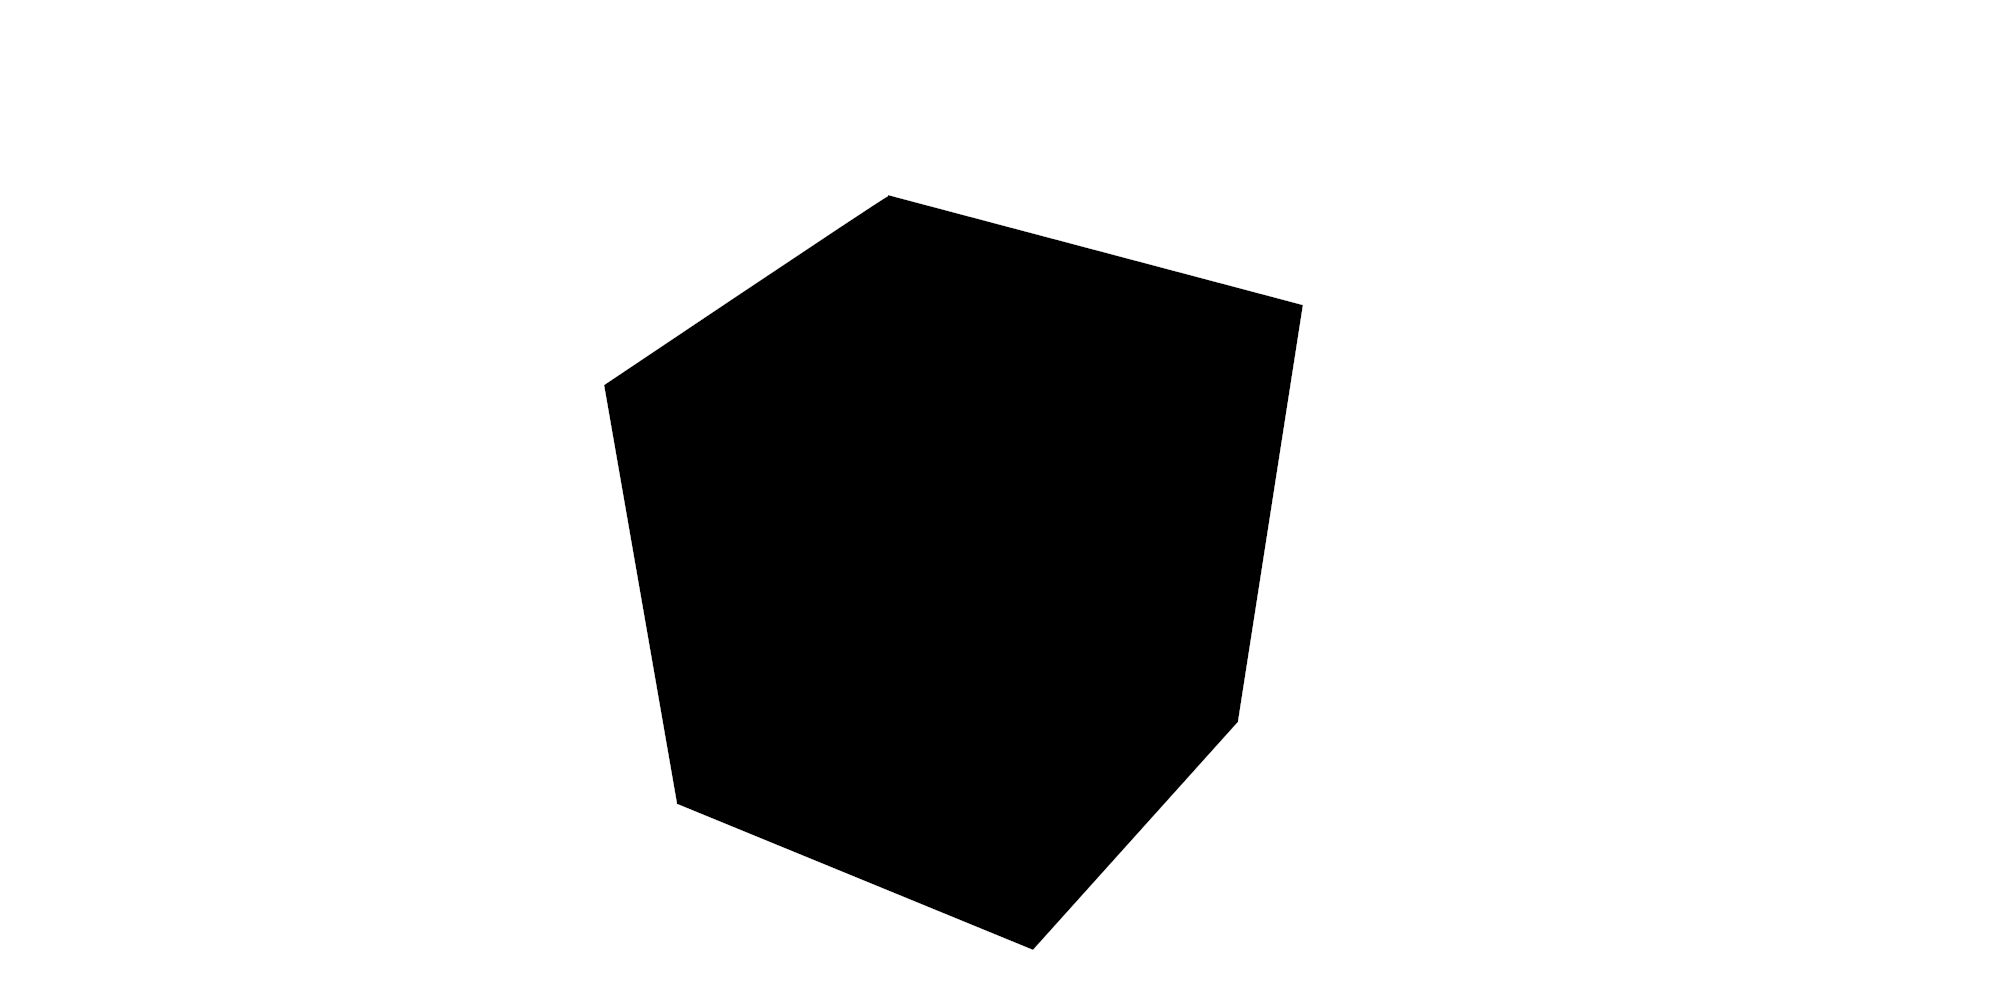
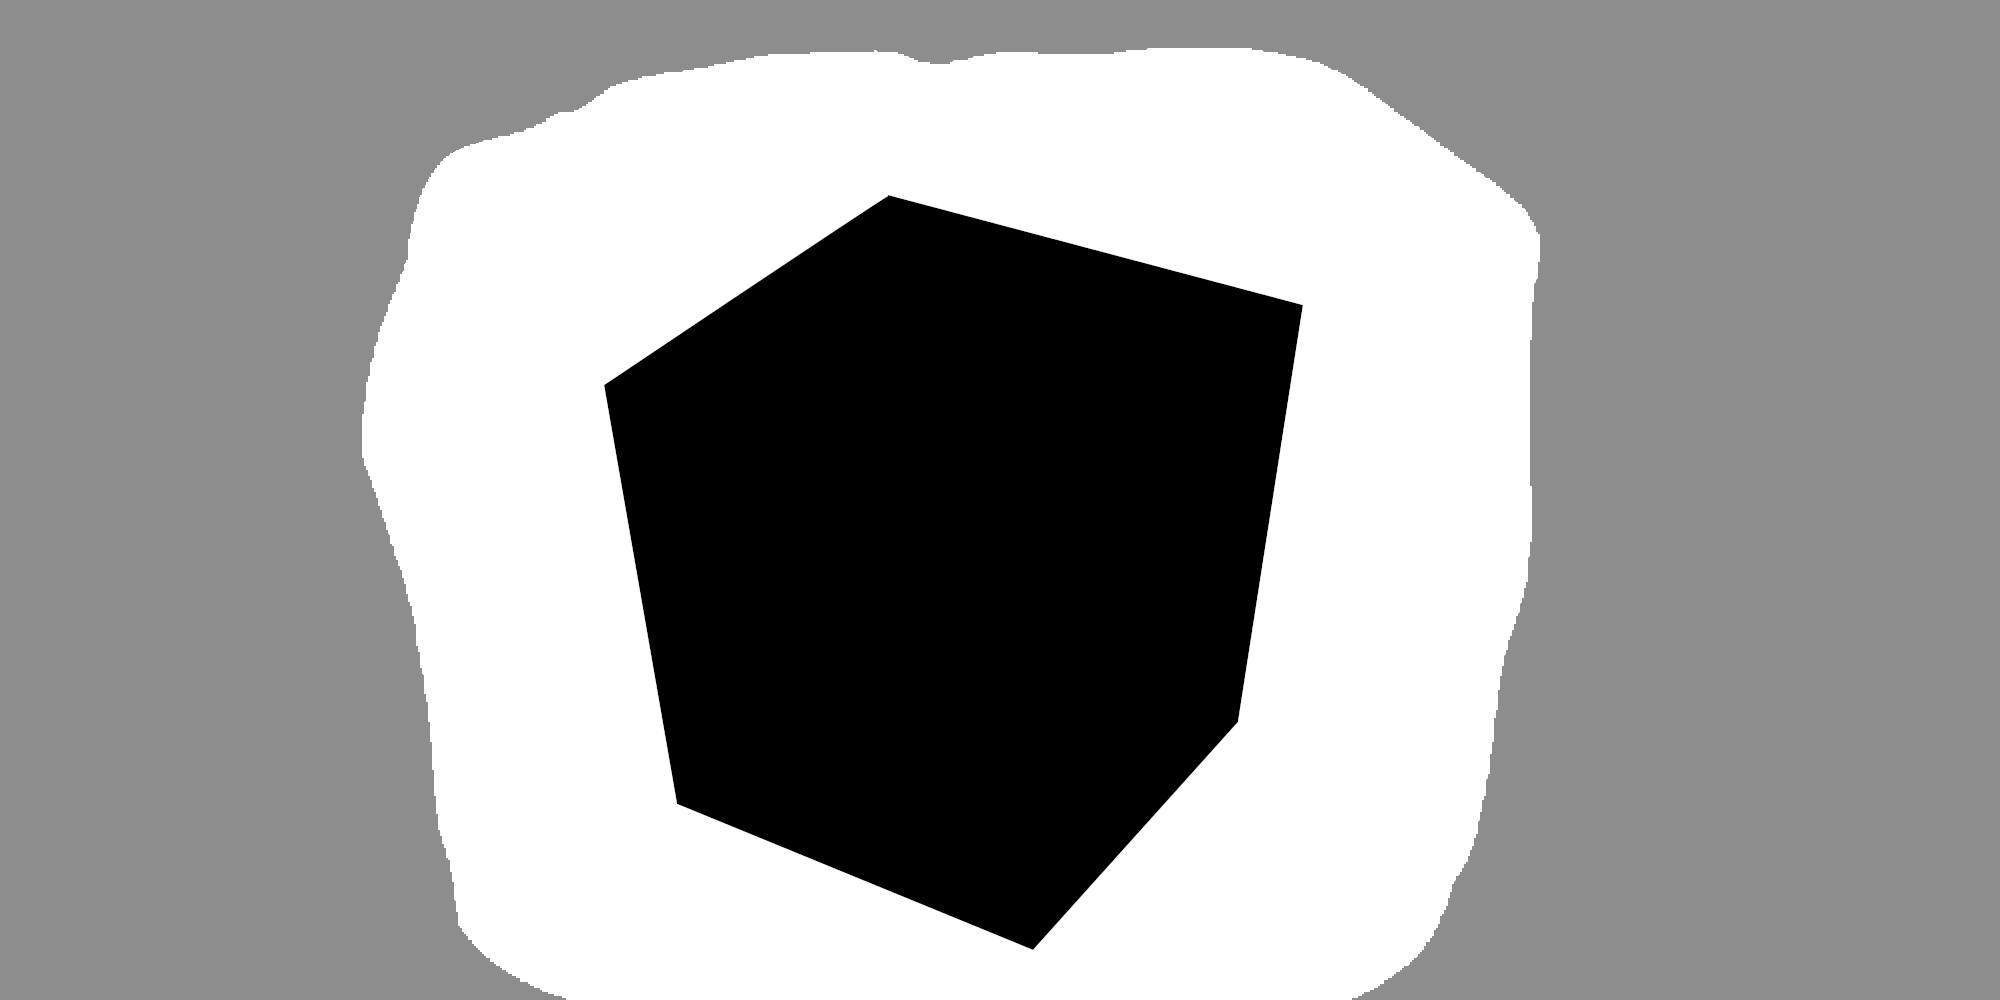
fix shadow detection in borders of wall

diff --git a/Assets/ShadowDetection.cs b/Assets/ShadowDetection.cs
@@ -16,6 +16,7 @@ public class ShadowDetection : MonoBehaviour
     public bool debugSectors = false;
     public bool debugShadows = false;
     public bool debugTextureShadows = false;
+    public bool debugTextureWhatever = false;
     public Color debugColor = Color.green;
 
     void Start()
@@ -44,6 +45,7 @@ public class ShadowDetection : MonoBehaviour
         int heightJump = Mathf.FloorToInt(shadowMap.height / numVertSectors);
 
         int numCorrectSectors = 0;
+        int numWrongSectors = 0;
 
         for (int i = 1; i <= numVertSectors; i++)
         {
@@ -79,34 +81,48 @@ public class ShadowDetection : MonoBehaviour
 
                 int numShadowPixels = 0;
                 int numLightPixels = 0;
+                int numWhateverPixels = 0;
 
                 foreach (Color pixel in shadowMapPixels)
                 {
                     if (pixel.r == 1f && pixel.g == 1f && pixel.b == 1f)
                         numLightPixels++;
-                    else
+                    else if (pixel.r == 0f && pixel.g == 0f && pixel.b == 0f)
                         numShadowPixels++;
+                    else
+                        numWhateverPixels++;
                 }
 
-                bool shouldBeShadow = numLightPixels <= numShadowPixels;
+                // If numWhateverPixels is higher, then it doesn't matter if is shadow or light
+                if (numWhateverPixels > numLightPixels && numWhateverPixels > numShadowPixels)
+                {
+                    if(debugTextureWhatever)
+                        Debug.DrawRay(sectorCenter, direction, Color.yellow);
+                }
+                else
+                {
+                    bool shouldBeShadow = numLightPixels <= numShadowPixels;
 
-                if (shouldBeShadow && debugTextureShadows)
-                    Debug.DrawRay(sectorCenter, direction, Color.blue);
+                    if (shouldBeShadow && debugTextureShadows)
+                        Debug.DrawRay(sectorCenter, direction, Color.blue);
 
-                if (shouldBeShadow == isShadow)
-                    numCorrectSectors++;
+                    if (shouldBeShadow == isShadow)
+                        numCorrectSectors++;
+                    else
+                        numWrongSectors++;
+                }
             }
         }
 
-        float correctPercentage = ((float)numCorrectSectors / (float)(numHorizSectors * numVertSectors)) * 100;
+        float correctPercentage = ((float)numCorrectSectors / (float)(numCorrectSectors + numWrongSectors)) * 100;
 
         Debug.Log(correctPercentage + "%");
 
         // DEBUG: draw plane bounding box
         for (int i = 0; i <= numVertSectors; i++)
         {
-            Vector3 leftPoint = Vector3.Lerp(planeTopLeft, planeBottomLeft, i / (float) numVertSectors);
-            Vector3 rightPoint = Vector3.Lerp(planeTopRight, planeBottomRight, i / (float) numVertSectors);
+            Vector3 leftPoint = Vector3.Lerp(planeTopLeft, planeBottomLeft, i / (float)numVertSectors);
+            Vector3 rightPoint = Vector3.Lerp(planeTopRight, planeBottomRight, i / (float)numVertSectors);
 
             if (debugSectors)
                 Debug.DrawLine(leftPoint, rightPoint, debugColor);
@@ -114,8 +130,8 @@ public class ShadowDetection : MonoBehaviour
 
         for (int i = 0; i <= numHorizSectors; i++)
         {
-            Vector3 topPoint = Vector3.Lerp(planeTopLeft, planeTopRight, i / (float) numHorizSectors);
-            Vector3 bottomPoint = Vector3.Lerp(planeBottomLeft, planeBottomRight, i / (float) numHorizSectors);
+            Vector3 topPoint = Vector3.Lerp(planeTopLeft, planeTopRight, i / (float)numHorizSectors);
+            Vector3 bottomPoint = Vector3.Lerp(planeBottomLeft, planeBottomRight, i / (float)numHorizSectors);
 
             if (debugSectors)
                 Debug.DrawLine(topPoint, bottomPoint, debugColor);
